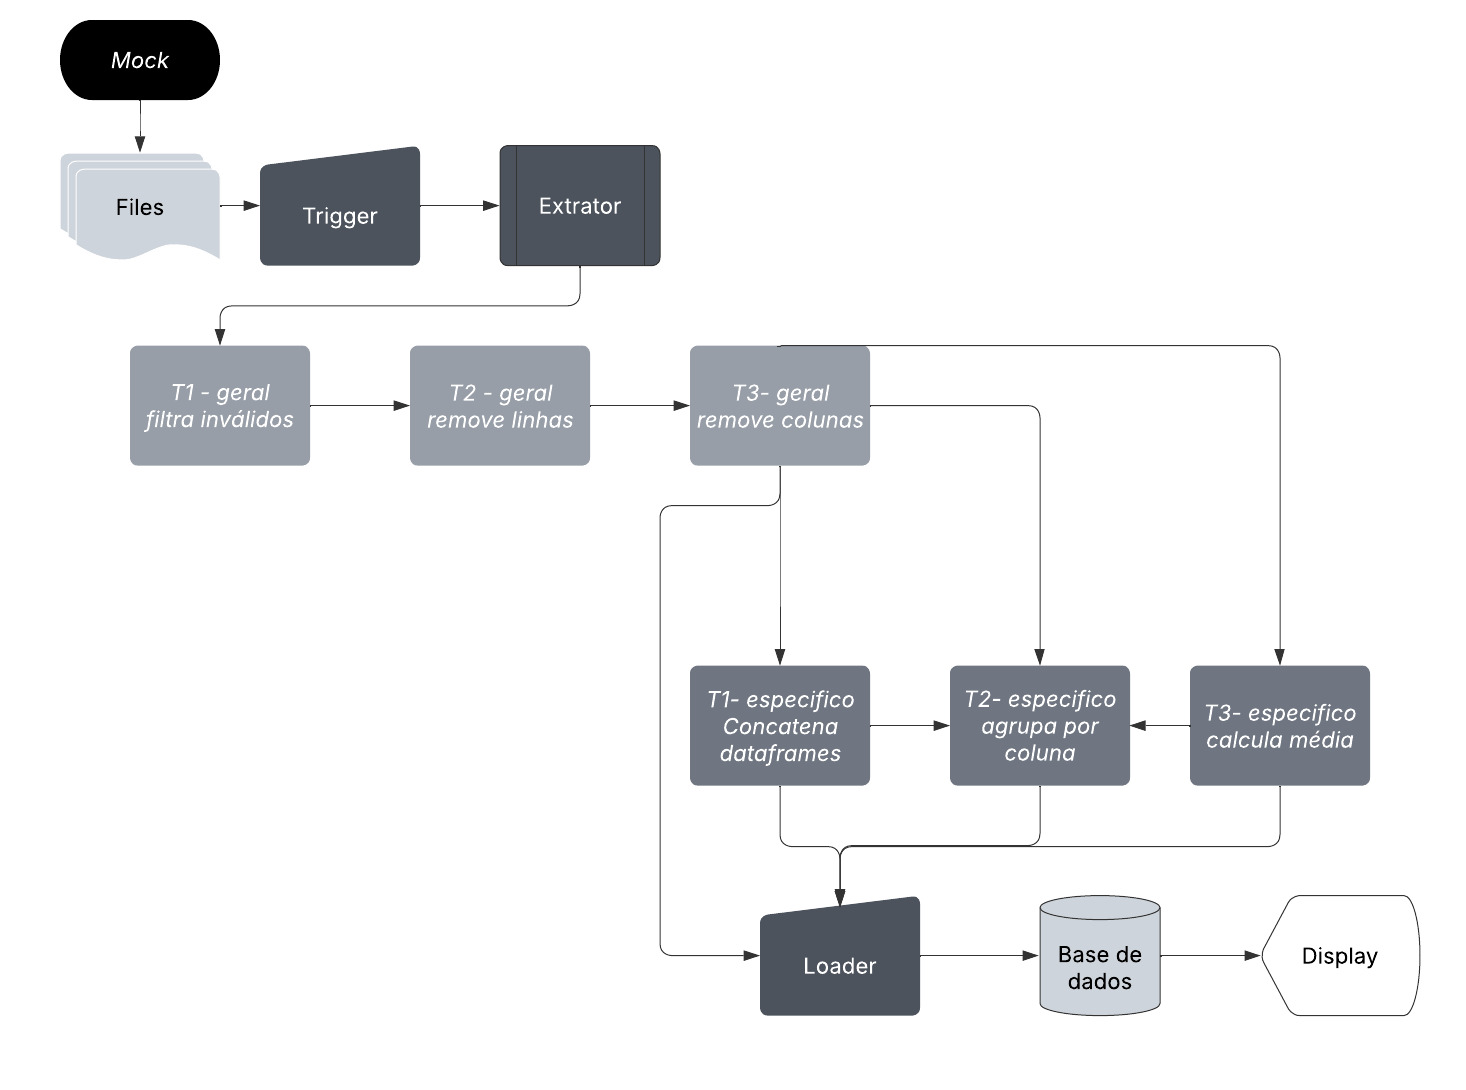
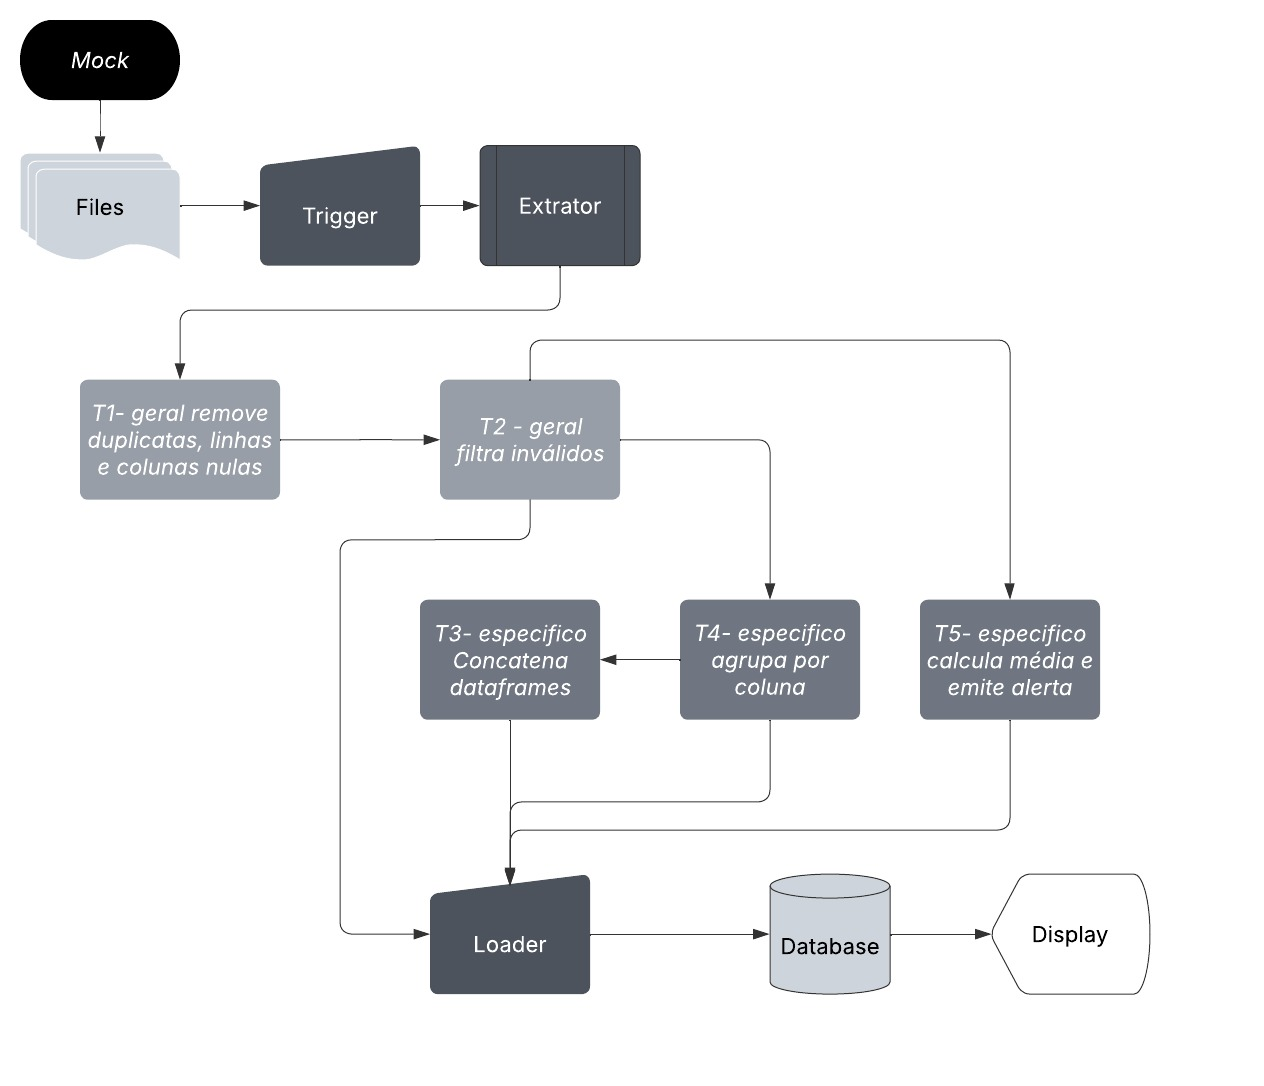
atualizando o fluxograma do relatorio

diff --git a/Relatório/Relatório_Computação_Escalável_A1.tex b/Relatório/Relatório_Computação_Escalável_A1.tex
@@ -125,7 +125,7 @@ Este relatório apresenta o desenvolvimento de um Micro-Framework voltado à con
 
 \begin{figure}[H]
     \hspace{-1cm}
-    \includegraphics[width=1.15\linewidth]{_Fluxograma(atualizado).png}
+    \includegraphics[width=1.15\linewidth]{_Fluxograma.jpeg}
     \caption{Fluxograma do framework}
     \label{fig:minha_imagem}
 \end{figure}
